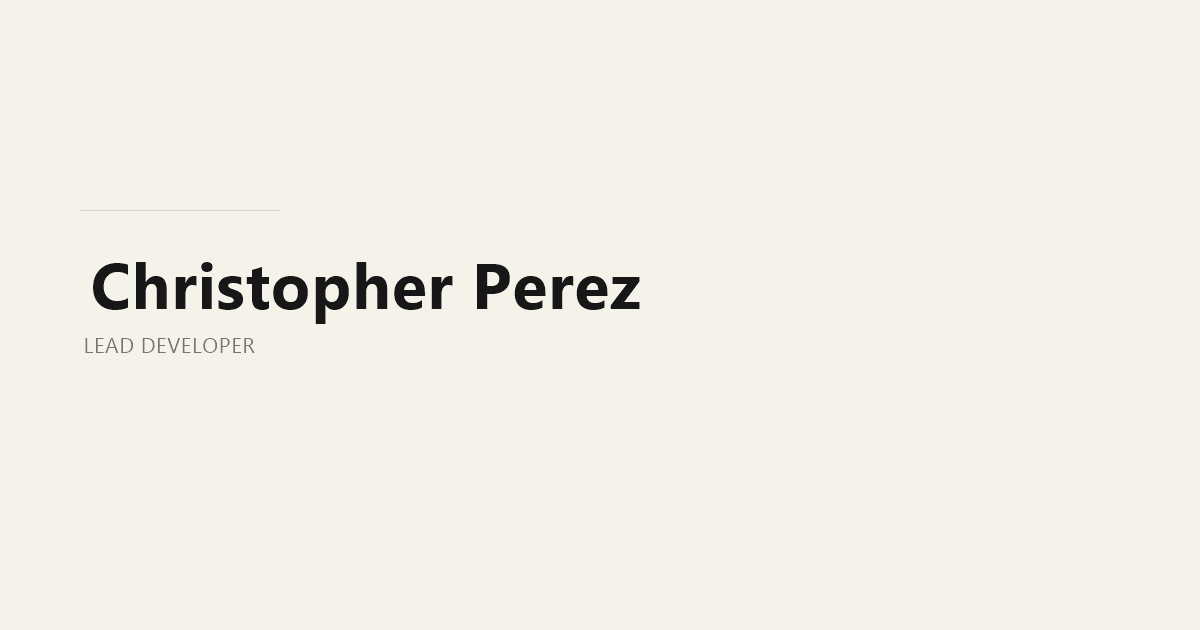
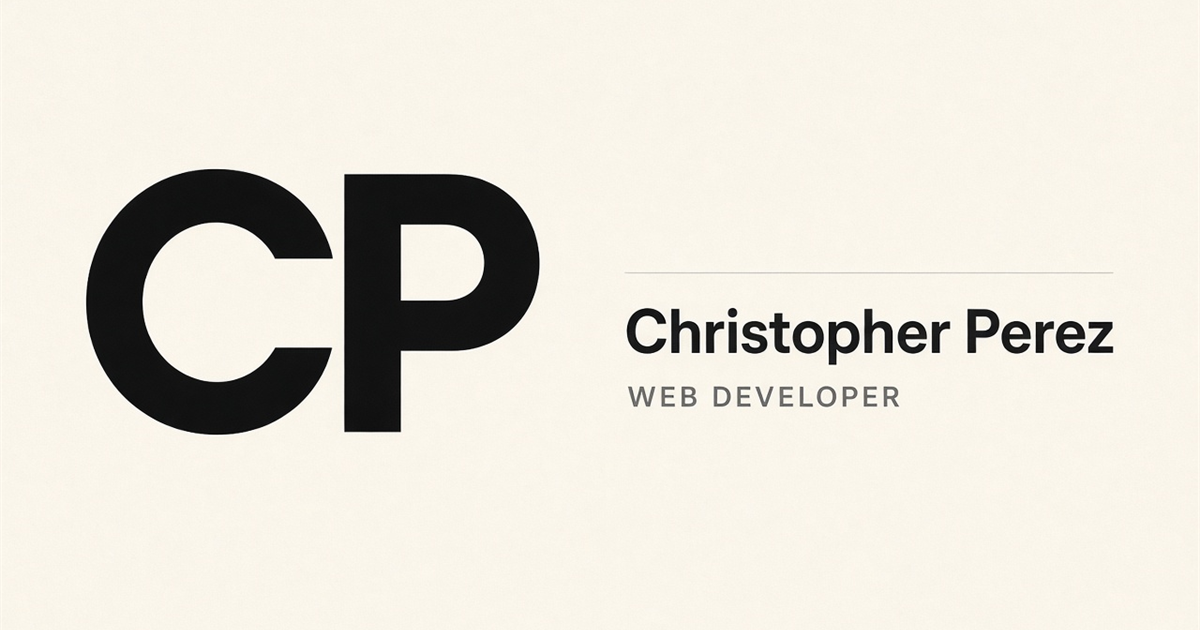
updated OG

Changed region(s): [[0.0617, 0.2714, 0.925, 0.6937], [0.5242, 0.6032, 0.7708, 0.6635]]

diff --git a/index.html b/index.html
@@ -1,6 +1,7 @@
 <!doctype html>
 <html lang="en">
-  <head>
+
+<head>
     <meta charset="UTF-8" />
     <link rel="icon" type="image/svg+xml" href="/favicon.svg" />
     <link rel="icon" type="image/png" sizes="32x32" href="/favicon-32.png" />
@@ -9,34 +10,26 @@
     <meta name="viewport" content="width=device-width, initial-scale=1.0" />
     <link rel="preconnect" href="https://fonts.googleapis.com" />
     <link rel="preconnect" href="https://fonts.gstatic.com" crossorigin />
-    <link
-      href="https://fonts.googleapis.com/css2?family=IBM+Plex+Mono:wght@400;500&family=Instrument+Sans:ital,wght@0,400;0,500;0,600;1,400&family=Instrument+Serif:ital@0;1&display=swap"
-      rel="stylesheet"
-    />
+    <link href="https://fonts.googleapis.com/css2?family=IBM+Plex+Mono:wght@400;500&family=Instrument+Sans:ital,wght@0,400;0,500;0,600;1,400&family=Instrument+Serif:ital@0;1&display=swap" rel="stylesheet" />
     <title>Christopher Perez — Web Developer</title>
-    <meta
-      name="description"
-      content="Web Developer building and supporting production web solutions, with experience in forms development, website implementation, WordPress, and technical troubleshooting."
-    />
+    <meta name="description" content="Web Developer building and supporting production web solutions, with experience in forms development, website implementation, WordPress, and technical troubleshooting." />
     <meta property="og:title" content="Christopher Perez — Web Developer" />
-    <meta
-      property="og:description"
-      content="Web Developer building and supporting production web solutions, with experience in forms development, website implementation, WordPress, and technical troubleshooting."
-    />
+    <meta property="og:description" content="Web Developer building and supporting production web solutions, with experience in forms development, website implementation, WordPress, and technical troubleshooting." />
     <meta property="og:type" content="website" />
     <meta property="og:url" content="https://christoffdev.vercel.app/" />
     <meta property="og:image" content="https://christoffdev.vercel.app/og.png" />
+    <meta property="og:image:width" content="1200" />
+    <meta property="og:image:height" content="630" />
     <meta name="twitter:card" content="summary_large_image" />
     <meta name="twitter:title" content="Christopher Perez — Web Developer" />
-    <meta
-      name="twitter:description"
-      content="Web Developer building and supporting production web solutions, with experience in forms development, website implementation, WordPress, and technical troubleshooting."
-    />
+    <meta name="twitter:description" content="Web Developer building and supporting production web solutions, with experience in forms development, website implementation, WordPress, and technical troubleshooting." />
     <meta name="twitter:image" content="https://christoffdev.vercel.app/og.png" />
     <link rel="canonical" href="https://christoffdev.vercel.app/" />
-  </head>
-  <body>
+</head>
+
+<body>
     <div id="root"></div>
     <script type="module" src="/src/main.tsx"></script>
-  </body>
+</body>
+
 </html>
